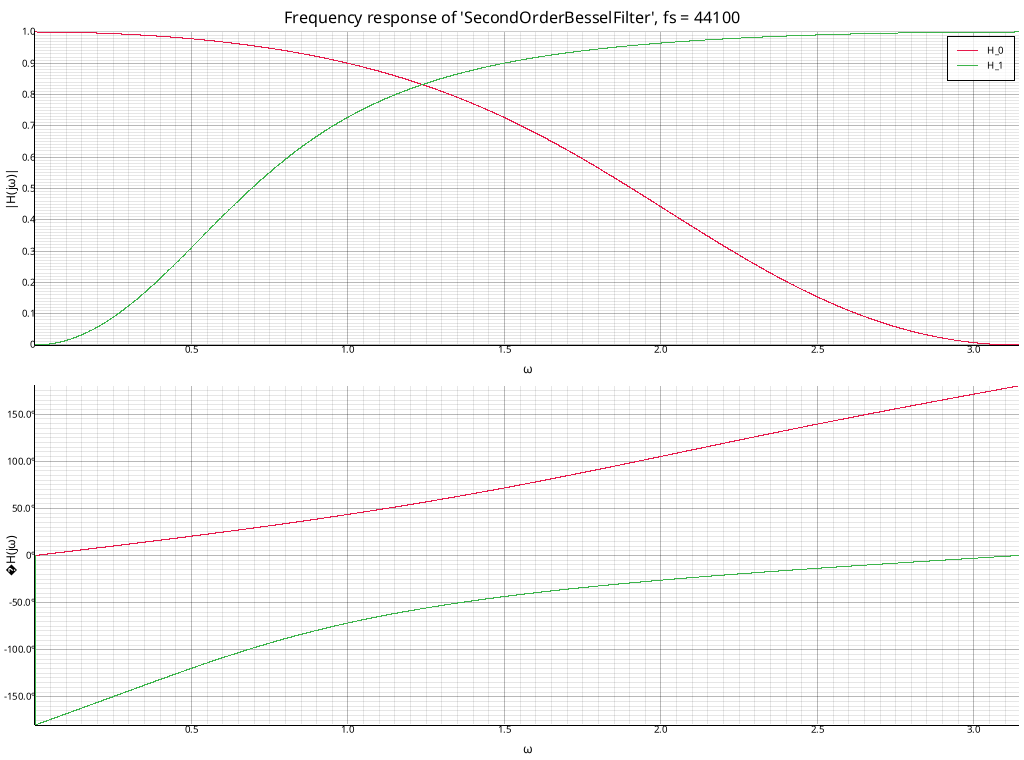
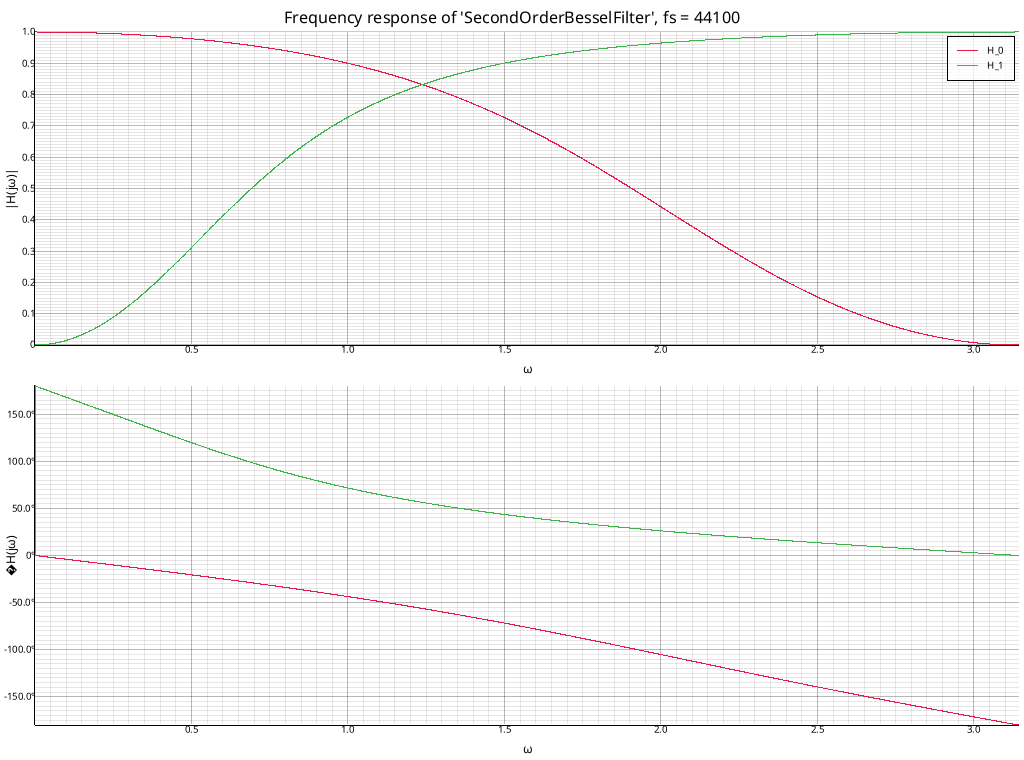
Correct bessel filter coefficients

diff --git a/src/calc/iir/second/second_order_bessel.rs b/src/calc/iir/second/second_order_bessel.rs
@@ -79,9 +79,9 @@ where
     pub fn a_low(&self) -> [F; 3]
     {
         [
-            self.four_rate2 - self.six_rate_omega + self.three_omega2,
-            -self.eight_rate2 + self.six_omega2,
             self.four_rate2 + self.six_rate_omega + self.three_omega2,
+            -self.eight_rate2 + self.six_omega2,
+            self.four_rate2 - self.six_rate_omega + self.three_omega2,
         ]
     }
 }
@@ -101,9 +101,9 @@ where
     pub fn a_high(&self) -> [F; 3]
     {
         [
-            self.twelve_rate2 - self.six_rate_omega + self.omega2,
+            self.twelve_rate2 + self.six_rate_omega + self.omega2,
             -self.twenty_four_rate2 + self.two_omega2,
-            self.twelve_rate2 + self.six_rate_omega + self.omega2
+            self.twelve_rate2 - self.six_rate_omega + self.omega2
         ]
     }
 }
